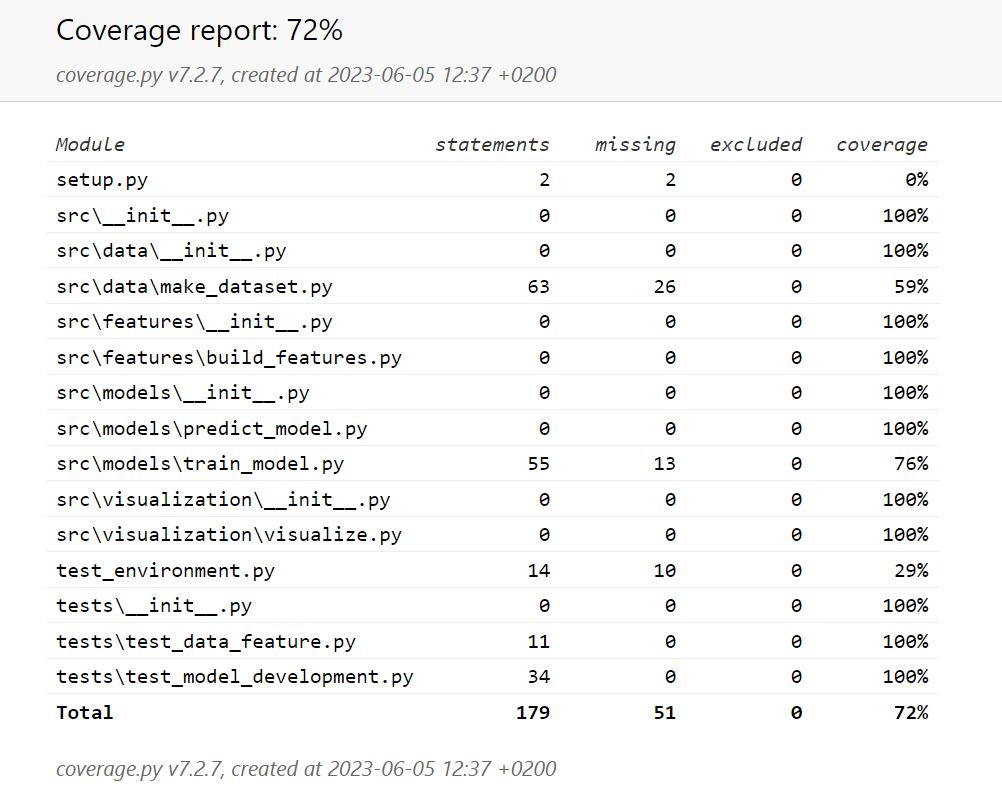
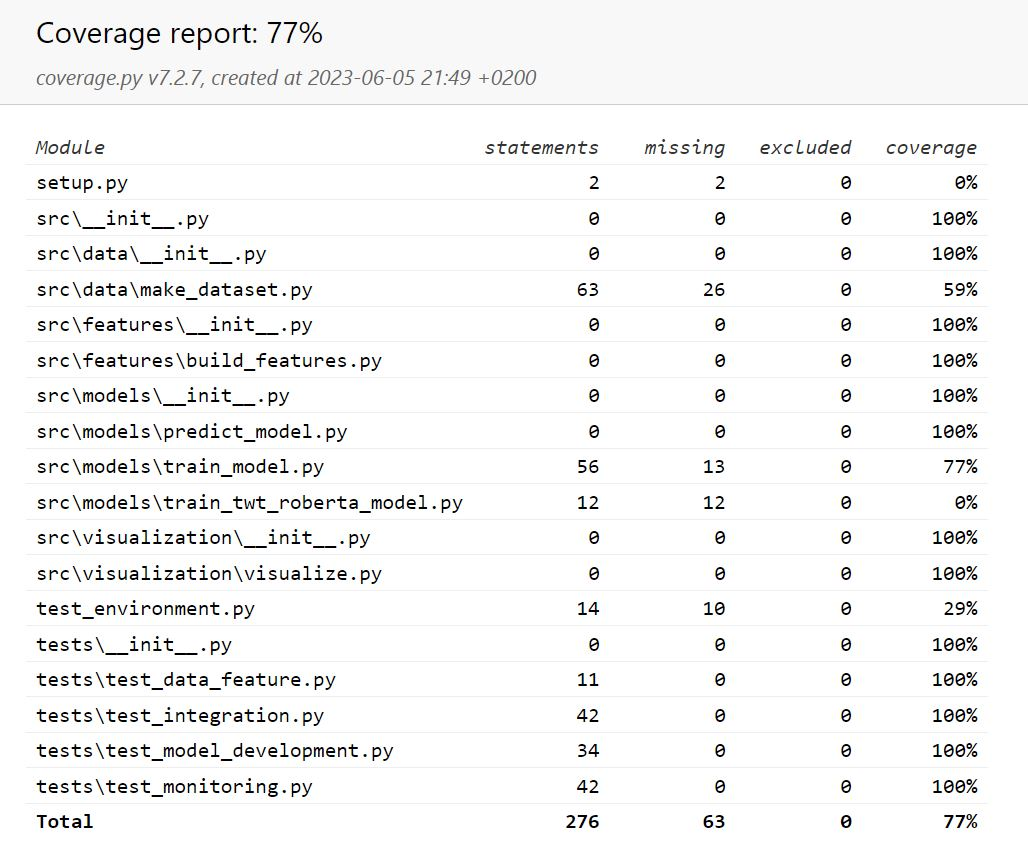
Cleaned up + updated images in README

diff --git a/report.html b/report.html
@@ -253,10 +253,10 @@ function filterTable(elem) { // eslint-disable-line no-unused-vars
 }
 </script>
     <h1>report.html</h1>
-    <p>Report generated on 05-Jun-2023 at 12:45:25 by <a href="https://pypi.python.org/pypi/pytest-html">pytest-html</a> v3.2.0</p>
+    <p>Report generated on 05-Jun-2023 at 21:47:03 by <a href="https://pypi.python.org/pypi/pytest-html">pytest-html</a> v3.2.0</p>
     <h2>Summary</h2>
-    <p>4 tests ran in 4.24 seconds. </p>
-    <p class="filter" hidden="true">(Un)check the boxes to filter the results.</p><input checked="true" class="filter" data-test-result="passed" hidden="true" name="filter_checkbox" onChange="filterTable(this)" type="checkbox"/><span class="passed">4 passed</span>, <input checked="true" class="filter" data-test-result="skipped" disabled="true" hidden="true" name="filter_checkbox" onChange="filterTable(this)" type="checkbox"/><span class="skipped">0 skipped</span>, <input checked="true" class="filter" data-test-result="failed" disabled="true" hidden="true" name="filter_checkbox" onChange="filterTable(this)" type="checkbox"/><span class="failed">0 failed</span>, <input checked="true" class="filter" data-test-result="error" disabled="true" hidden="true" name="filter_checkbox" onChange="filterTable(this)" type="checkbox"/><span class="error">0 errors</span>, <input checked="true" class="filter" data-test-result="xfailed" disabled="true" hidden="true" name="filter_checkbox" onChange="filterTable(this)" type="checkbox"/><span class="xfailed">0 expected failures</span>, <input checked="true" class="filter" data-test-result="xpassed" disabled="true" hidden="true" name="filter_checkbox" onChange="filterTable(this)" type="checkbox"/><span class="xpassed">0 unexpected passes</span>
+    <p>13 tests ran in 5.65 seconds. </p>
+    <p class="filter" hidden="true">(Un)check the boxes to filter the results.</p><input checked="true" class="filter" data-test-result="passed" hidden="true" name="filter_checkbox" onChange="filterTable(this)" type="checkbox"/><span class="passed">13 passed</span>, <input checked="true" class="filter" data-test-result="skipped" disabled="true" hidden="true" name="filter_checkbox" onChange="filterTable(this)" type="checkbox"/><span class="skipped">0 skipped</span>, <input checked="true" class="filter" data-test-result="failed" disabled="true" hidden="true" name="filter_checkbox" onChange="filterTable(this)" type="checkbox"/><span class="failed">0 failed</span>, <input checked="true" class="filter" data-test-result="error" disabled="true" hidden="true" name="filter_checkbox" onChange="filterTable(this)" type="checkbox"/><span class="error">0 errors</span>, <input checked="true" class="filter" data-test-result="xfailed" disabled="true" hidden="true" name="filter_checkbox" onChange="filterTable(this)" type="checkbox"/><span class="xfailed">0 expected failures</span>, <input checked="true" class="filter" data-test-result="xpassed" disabled="true" hidden="true" name="filter_checkbox" onChange="filterTable(this)" type="checkbox"/><span class="xpassed">0 unexpected passes</span>
     <h2>Results</h2>
     <table id="results-table">
       <thead id="results-table-head">
@@ -271,7 +271,7 @@ function filterTable(elem) { // eslint-disable-line no-unused-vars
         <tr>
           <td class="col-result">Passed</td>
           <td class="col-name">tests/test_data_feature.py::test_distribution</td>
-          <td class="col-duration">0.02</td>
+          <td class="col-duration">0.03</td>
           <td class="col-links"></td></tr>
         <tr>
           <td class="extra" colspan="4">
@@ -279,41 +279,134 @@ function filterTable(elem) { // eslint-disable-line no-unused-vars
       <tbody class="passed results-table-row">
         <tr>
           <td class="col-result">Passed</td>
-          <td class="col-name">tests/test_model_development.py::test_nondeternism_robustness</td>
-          <td class="col-duration">0.22</td>
+          <td class="col-name">tests/test_integration.py::test_get_data</td>
+          <td class="col-duration">0.00</td>
           <td class="col-links"></td></tr>
         <tr>
           <td class="extra" colspan="4">
-            <div class="log"> ------------------------------Captured stdout call------------------------------ <br/>[[64 19]
- [32 65]]
+            <div class="empty log">No log output captured.</div></td></tr></tbody>
+      <tbody class="passed results-table-row">
+        <tr>
+          <td class="col-result">Passed</td>
+          <td class="col-name">tests/test_integration.py::test_text_process</td>
+          <td class="col-duration">0.00</td>
+          <td class="col-links"></td></tr>
+        <tr>
+          <td class="extra" colspan="4">
+            <div class="empty log">No log output captured.</div></td></tr></tbody>
+      <tbody class="passed results-table-row">
+        <tr>
+          <td class="col-result">Passed</td>
+          <td class="col-name">tests/test_integration.py::test_data_preprocessing</td>
+          <td class="col-duration">0.00</td>
+          <td class="col-links"></td></tr>
+        <tr>
+          <td class="extra" colspan="4">
+            <div class="empty log">No log output captured.</div></td></tr></tbody>
+      <tbody class="passed results-table-row">
+        <tr>
+          <td class="col-result">Passed</td>
+          <td class="col-name">tests/test_integration.py::test_model_training</td>
+          <td class="col-duration">0.09</td>
+          <td class="col-links"></td></tr>
+        <tr>
+          <td class="extra" colspan="4">
+            <div class="log"> ------------------------------Captured stdout call------------------------------ <br/>[[75 20]
+ [39 46]]
+<br/></div></td></tr></tbody>
+      <tbody class="passed results-table-row">
+        <tr>
+          <td class="col-result">Passed</td>
+          <td class="col-name">tests/test_integration.py::test_model_evaluation</td>
+          <td class="col-duration">0.03</td>
+          <td class="col-links"></td></tr>
+        <tr>
+          <td class="extra" colspan="4">
+            <div class="log"> ------------------------------Captured stdout call------------------------------ <br/>[[69 14]
+ [44 53]]
+<br/></div></td></tr></tbody>
+      <tbody class="passed results-table-row">
+        <tr>
+          <td class="col-result">Passed</td>
+          <td class="col-name">tests/test_model_development.py::test_nondeternism_robustness</td>
+          <td class="col-duration">0.11</td>
+          <td class="col-links"></td></tr>
+        <tr>
+          <td class="extra" colspan="4">
+            <div class="log"> ------------------------------Captured stdout call------------------------------ <br/>[[69 14]
+ [44 53]]
 [[75 20]
- [31 54]]
-[[70 13]
- [29 68]]
+ [39 46]]
+[[66 17]
+ [35 62]]
 <br/></div></td></tr></tbody>
       <tbody class="passed results-table-row">
         <tr>
           <td class="col-result">Passed</td>
           <td class="col-name">tests/test_model_development.py::test_data_slice_negative</td>
-          <td class="col-duration">0.12</td>
+          <td class="col-duration">0.16</td>
           <td class="col-links"></td></tr>
         <tr>
           <td class="extra" colspan="4">
-            <div class="log"> ------------------------------Captured stdout call------------------------------ <br/>[[64 19]
- [32 65]]
-[[52 29]
+            <div class="log"> ------------------------------Captured stdout call------------------------------ <br/>[[69 14]
+ [44 53]]
+[[43 38]
  [ 0  0]]
 <br/></div></td></tr></tbody>
       <tbody class="passed results-table-row">
         <tr>
           <td class="col-result">Passed</td>
           <td class="col-name">tests/test_model_development.py::test_data_slice_positive</td>
-          <td class="col-duration">0.12</td>
+          <td class="col-duration">0.16</td>
           <td class="col-links"></td></tr>
         <tr>
           <td class="extra" colspan="4">
-            <div class="log"> ------------------------------Captured stdout call------------------------------ <br/>[[64 19]
- [32 65]]
+            <div class="log"> ------------------------------Captured stdout call------------------------------ <br/>[[69 14]
+ [44 53]]
 [[ 0  0]
- [39 61]]
+ [55 45]]
+<br/></div></td></tr></tbody>
+      <tbody class="passed results-table-row">
+        <tr>
+          <td class="col-result">Passed</td>
+          <td class="col-name">tests/test_monitoring.py::test_data_invariants</td>
+          <td class="col-duration">0.00</td>
+          <td class="col-links"></td></tr>
+        <tr>
+          <td class="extra" colspan="4">
+            <div class="empty log">No log output captured.</div></td></tr></tbody>
+      <tbody class="passed results-table-row">
+        <tr>
+          <td class="col-result">Passed</td>
+          <td class="col-name">tests/test_monitoring.py::test_model_staleness</td>
+          <td class="col-duration">0.13</td>
+          <td class="col-links"></td></tr>
+        <tr>
+          <td class="extra" colspan="4">
+            <div class="log"> ------------------------------Captured stdout call------------------------------ <br/>[[30 13]
+ [30 17]]
+[[69 14]
+ [44 53]]
+<br/></div></td></tr></tbody>
+      <tbody class="passed results-table-row">
+        <tr>
+          <td class="col-result">Passed</td>
+          <td class="col-name">tests/test_monitoring.py::test_training_speed</td>
+          <td class="col-duration">0.03</td>
+          <td class="col-links"></td></tr>
+        <tr>
+          <td class="extra" colspan="4">
+            <div class="log"> ------------------------------Captured stdout call------------------------------ <br/>[[69 14]
+ [44 53]]
+<br/></div></td></tr></tbody>
+      <tbody class="passed results-table-row">
+        <tr>
+          <td class="col-result">Passed</td>
+          <td class="col-name">tests/test_monitoring.py::test_ram_usage</td>
+          <td class="col-duration">0.03</td>
+          <td class="col-links"></td></tr>
+        <tr>
+          <td class="extra" colspan="4">
+            <div class="log"> ------------------------------Captured stdout call------------------------------ <br/>[[69 14]
+ [44 53]]
 <br/></div></td></tr></tbody></table></body></html>

diff --git a/tests/test_integration.py b/tests/test_integration.py
@@ -5,17 +5,19 @@ import joblib
 from src.data.make_dataset import preprocess_test,_text_process
 from src.models.train_model import train_model, evaluate_model,load_data
 from sklearn.feature_extraction.text import CountVectorizer
+
+
 @pytest.fixture()
 def test_data():
     test_file = "./data/raw/a1_RestaurantReviews_HistoricDump.tsv"
     data = pd.read_csv(test_file, sep='\t', quoting=3)
     yield data
 
-
 @pytest.fixture()
 def trained_model():
     model = joblib.load("./models/sentiment_model.joblib")
     yield model
+
 @pytest.fixture()
 def mock_data():
     mock_data = pd.DataFrame({"Review": ["I love the fish", "Not good"], "Liked": [1, 0]})
@@ -26,7 +28,6 @@ def test_get_data():
     data = load_data(input_filepath)
     assert isinstance(data, pd.DataFrame)
 
-
 def test_text_process(mock_data):
     processed_review = _text_process(mock_data['Review'][0])
     expected_res = "love fish"
@@ -35,8 +36,8 @@ def test_text_process(mock_data):
 def test_data_preprocessing(mock_data):
     # Mock dataset
     processed_data = preprocess_test(mock_data)
-
     assert isinstance(processed_data, np.ndarray)
+
 def test_model_training(test_data,trained_model):
     raw_data_filepath = "./data/raw/a1_RestaurantReviews_HistoricDump.tsv"
     processed_data_filepath = "./data/processed/processed_data.joblib"
@@ -44,7 +45,6 @@ def test_model_training(test_data,trained_model):
 
     # Check if the model return accuracy_score
     assert isinstance(model, float)
-
 
 def test_model_evaluation(trained_model):
     processed_data_filepath = "./data/raw/a1_RestaurantReviews_HistoricDump.tsv"

diff --git a/tests/test_monitoring.py b/tests/test_monitoring.py
@@ -5,16 +5,18 @@ from src.models.train_model import train_model, train_model_loaded_data, evaluat
 from src.data.make_dataset import preprocess_test
 import time
 import psutil
+
+
 @pytest.fixture()
 def trained_model():
     model = joblib.load("./models/sentiment_model.joblib")
     yield model
+
 @pytest.fixture()
 def test_data():
     test_file = "./data/raw/a1_RestaurantReviews_HistoricDump.tsv"
     data = pd.read_csv(test_file, sep='\t', quoting=3)
     yield data
-
 
 def test_data_invariants(test_data):
     # Perform necessary data checks or comparisons
@@ -24,7 +26,6 @@ def test_data_invariants(test_data):
 
 
 def test_model_staleness(trained_model,test_data):
-
     data_before = preprocess_test(test_data[:450])
     score_before = train_model_loaded_data(trained_model, test_data[:450], data_before)
 
@@ -46,8 +47,6 @@ def test_training_speed(trained_model):
 
     baseline_training_time = 0.05
     assert training_time <= baseline_training_time
-
-
 
 def test_ram_usage(trained_model):
     processed_data_filepath = "./data/raw/a1_RestaurantReviews_HistoricDump.tsv"

diff --git a/tests/test_model_development.py b/tests/test_model_development.py
@@ -4,6 +4,7 @@ import pandas
 from src.models.train_model import train_model, train_model_loaded_data, evaluate_model
 from src.data.make_dataset import preprocess_test
 
+
 @pytest.fixture()
 def trained_model():
     model = joblib.load("./models/sentiment_model.joblib")

diff --git a/README.md b/README.md
@@ -20,7 +20,7 @@ Set up DVC:
 - `pip install dvc`
 
 Pull the files from the DVC remote:
-- `dvc pull` (if you get errors, try to `dvc fetch` the files you could not pull, and pull again)
+- `dvc pull`
 
 Run the pipeline:
 - `dvc repro`
@@ -40,7 +40,7 @@ To run tests:
 - `pytest`
 
 To get a test report:
-- `pytest --html=report.html`, and open up the html-file in your browser.
+- `pytest --html=report.html`, and open up report.html in your browser.
 
 To see a coverage report (adequacy metric): 
 - `pytest --cov=. --cov-report html:coverage_report`, and open the coverage_report\index.html in your browser
